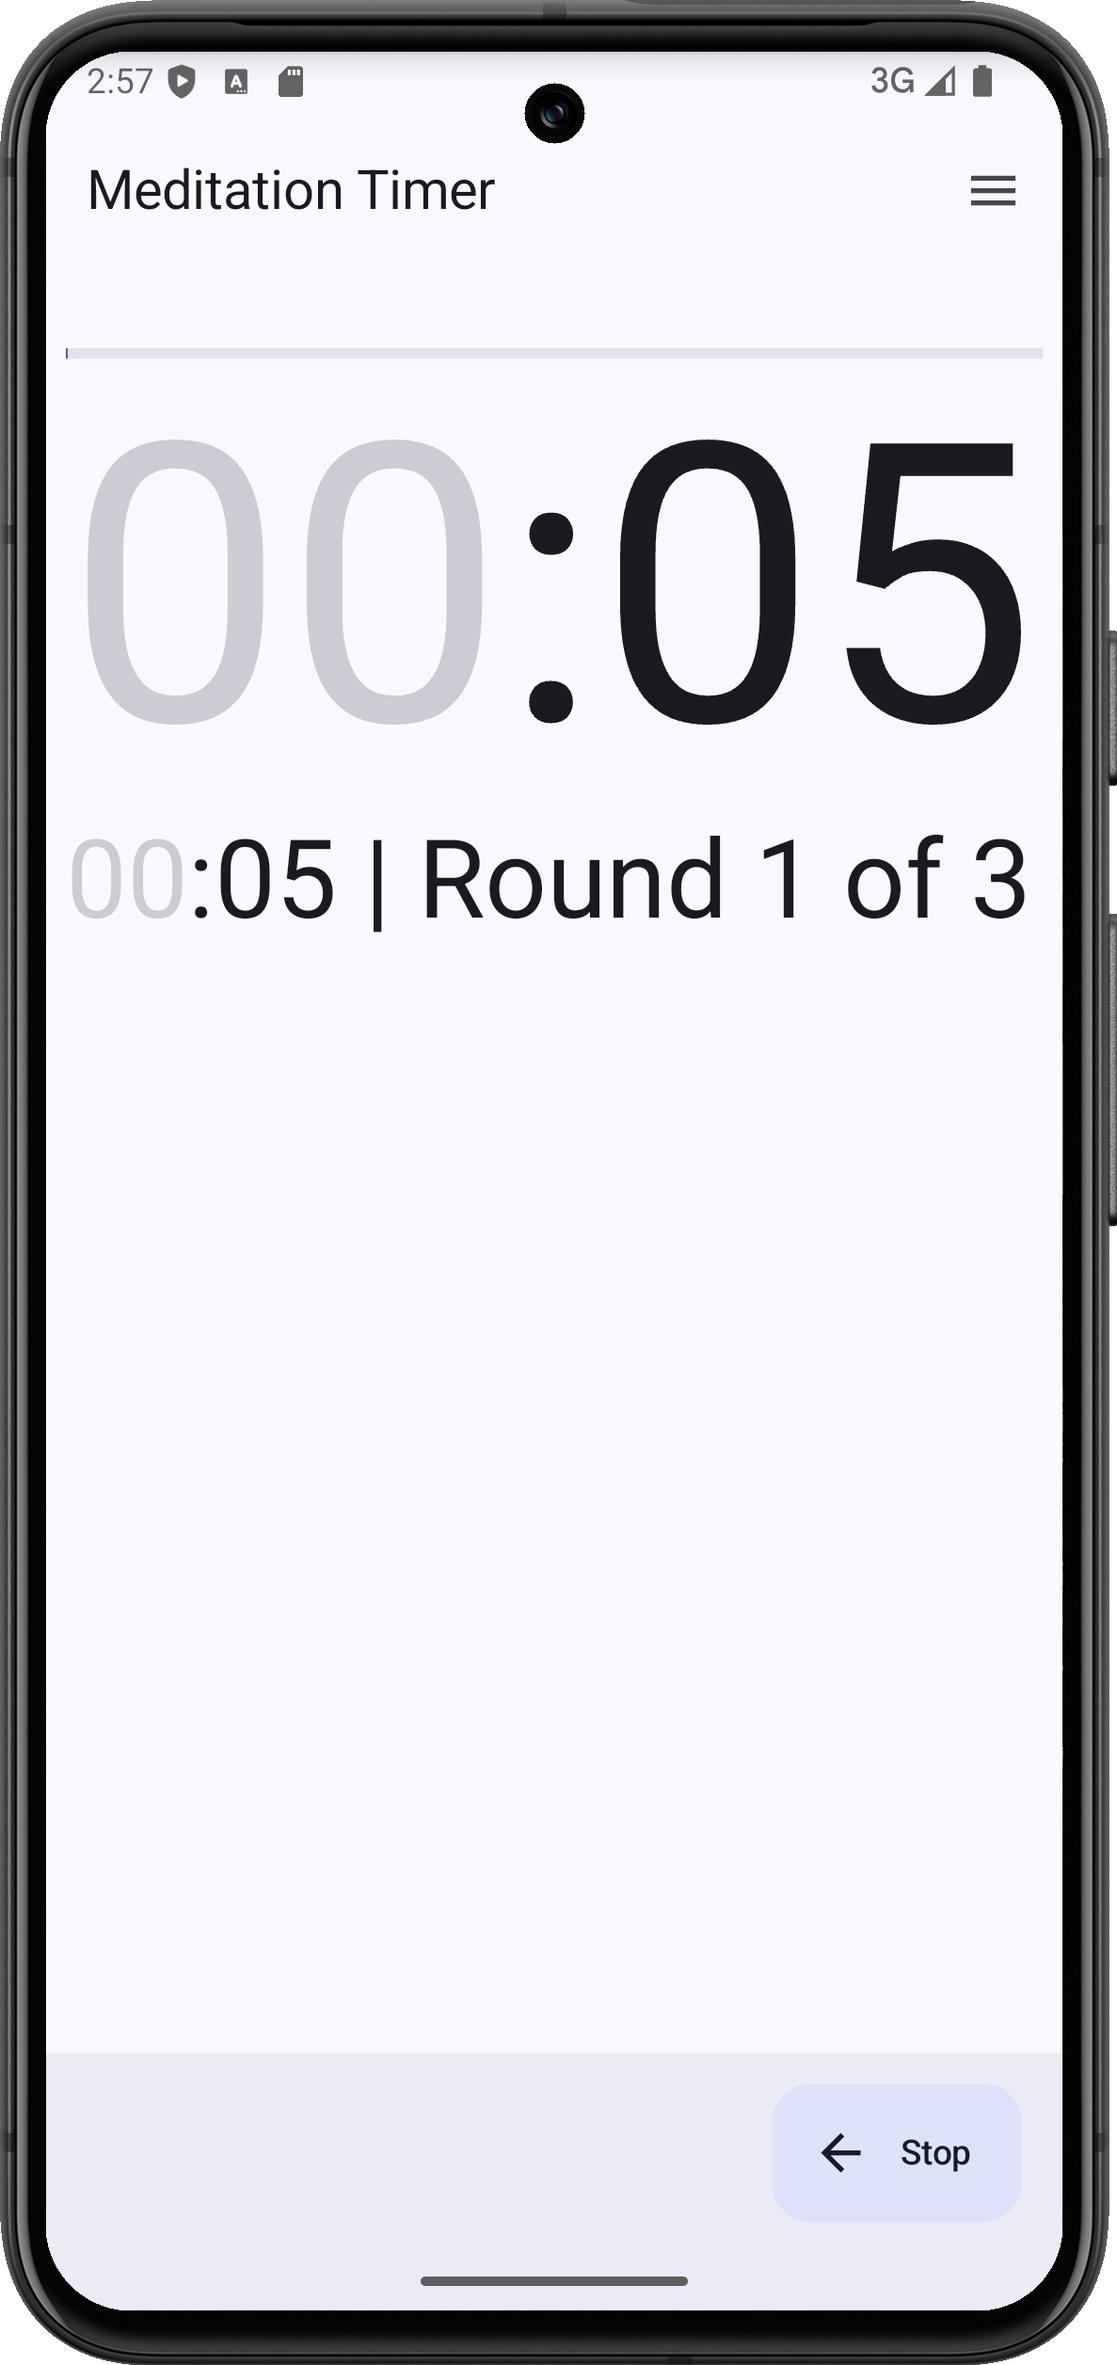
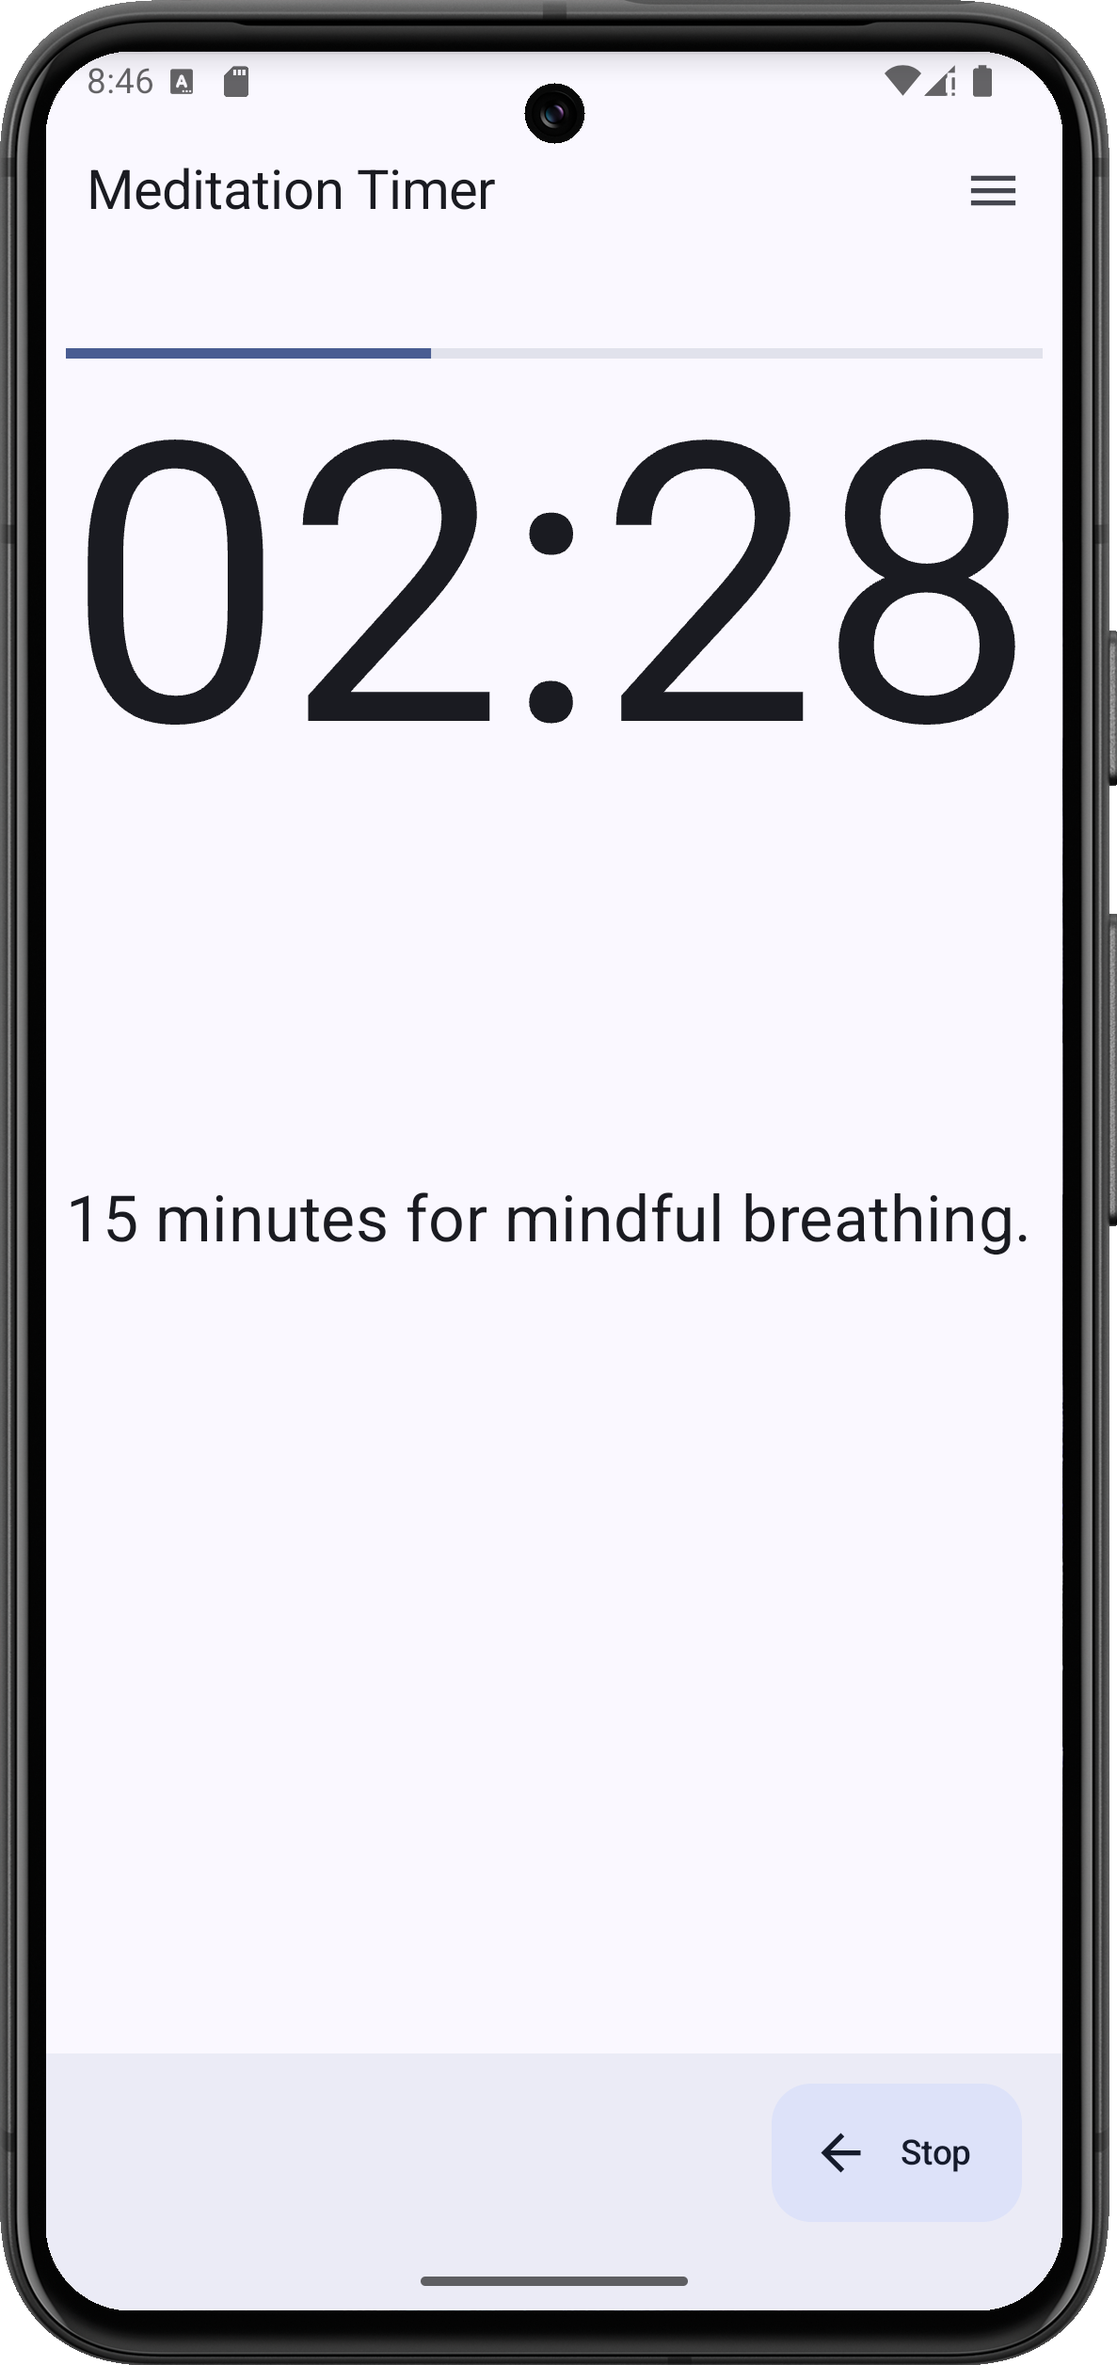
in which our hero simplifies further, and makes visual UI changes

diff --git a/app/src/main/java/com/exner/tools/meditationtimer/ui/destinations/ProcessList.kt b/app/src/main/java/com/exner/tools/meditationtimer/ui/destinations/ProcessList.kt
@@ -2,24 +2,27 @@ package com.exner.tools.meditationtimer.ui.destinations
 
 import androidx.compose.foundation.clickable
 import androidx.compose.foundation.layout.Arrangement
+import androidx.compose.foundation.layout.Box
 import androidx.compose.foundation.layout.Column
+import androidx.compose.foundation.layout.Row
 import androidx.compose.foundation.layout.fillMaxWidth
 import androidx.compose.foundation.layout.padding
+import androidx.compose.foundation.layout.wrapContentSize
 import androidx.compose.foundation.lazy.grid.GridCells
 import androidx.compose.foundation.lazy.grid.LazyVerticalGrid
 import androidx.compose.material.icons.Icons
 import androidx.compose.material.icons.filled.Add
 import androidx.compose.material3.BottomAppBar
 import androidx.compose.material3.BottomAppBarDefaults
+import androidx.compose.material3.Button
+import androidx.compose.material3.DropdownMenu
 import androidx.compose.material3.DropdownMenuItem
 import androidx.compose.material3.ExperimentalMaterial3Api
-import androidx.compose.material3.ExposedDropdownMenuBox
 import androidx.compose.material3.ExposedDropdownMenuDefaults
 import androidx.compose.material3.ExtendedFloatingActionButton
 import androidx.compose.material3.FloatingActionButtonDefaults
 import androidx.compose.material3.Icon
 import androidx.compose.material3.ListItem
-import androidx.compose.material3.OutlinedTextField
 import androidx.compose.material3.Scaffold
 import androidx.compose.material3.Surface
 import androidx.compose.material3.Text
@@ -28,6 +31,7 @@ import androidx.compose.runtime.getValue
 import androidx.compose.runtime.mutableStateOf
 import androidx.compose.runtime.remember
 import androidx.compose.runtime.setValue
+import androidx.compose.ui.Alignment
 import androidx.compose.ui.Modifier
 import androidx.compose.ui.unit.dp
 import androidx.hilt.navigation.compose.hiltViewModel
@@ -73,23 +77,23 @@ fun ProcessList(
                 var categoryExpanded by remember {
                     mutableStateOf(false)
                 }
-                ExposedDropdownMenuBox(
-                    expanded = categoryExpanded,
-                    onExpandedChange = { categoryExpanded = !categoryExpanded }
+                Box(
+                    modifier = Modifier
+                        .fillMaxWidth()
+                        .padding(8.dp, 0.dp)
+                        .wrapContentSize(Alignment.TopEnd)
                 ) {
-                    OutlinedTextField(
-                        // The `menuAnchor` modifier must be passed to the text field for correctness.
-                        modifier = Modifier
-                            .menuAnchor()
-                            .fillMaxWidth()
-                            .padding(8.dp),
-                        readOnly = true,
-                        value = currentCategory.name,
-                        onValueChange = {},
-                        label = { Text("Process category") },
-                        trailingIcon = { ExposedDropdownMenuDefaults.TrailingIcon(expanded = categoryExpanded) },
-                    )
-                    ExposedDropdownMenu(
+                    Row(
+                        verticalAlignment = Alignment.CenterVertically
+                    ) {
+                        Text(text = "Category: ")
+                        Button(
+                            onClick = { categoryExpanded = true }
+                        ) {
+                            Text(text = currentCategory.name)
+                        }
+                    }
+                    DropdownMenu(
                         expanded = categoryExpanded,
                         onDismissRequest = { categoryExpanded = false }) {
                         DropdownMenuItem(

diff --git a/app/src/main/java/com/exner/tools/meditationtimer/ui/destinations/Settings.kt b/app/src/main/java/com/exner/tools/meditationtimer/ui/destinations/Settings.kt
@@ -1,27 +1,21 @@
 package com.exner.tools.meditationtimer.ui.destinations
 
 import android.content.pm.ActivityInfo
-import androidx.compose.animation.AnimatedVisibility
 import androidx.compose.foundation.layout.Column
 import androidx.compose.foundation.layout.fillMaxSize
-import androidx.compose.foundation.layout.fillMaxWidth
-import androidx.compose.foundation.layout.padding
 import androidx.compose.foundation.rememberScrollState
 import androidx.compose.foundation.verticalScroll
-import androidx.compose.material3.Text
 import androidx.compose.runtime.Composable
 import androidx.compose.runtime.getValue
 import androidx.compose.ui.Modifier
 import androidx.compose.ui.tooling.preview.Devices
 import androidx.compose.ui.tooling.preview.Preview
-import androidx.compose.ui.unit.dp
 import androidx.hilt.navigation.compose.hiltViewModel
 import androidx.lifecycle.compose.collectAsStateWithLifecycle
 import com.exner.tools.meditationtimer.ui.LockScreenOrientation
 import com.exner.tools.meditationtimer.ui.SettingsViewModel
 import com.exner.tools.meditationtimer.ui.TextAndSwitch
 import com.exner.tools.meditationtimer.ui.TextAndTriStateToggle
-import com.exner.tools.meditationtimer.ui.TextFieldForTimes
 import com.exner.tools.meditationtimer.ui.theme.MeditationTimerTheme
 import com.exner.tools.meditationtimer.ui.theme.Theme
 import com.ramcosta.composedestinations.annotation.Destination
@@ -33,8 +27,6 @@ fun Settings(
 ) {
 
     val userSelectedTheme by settingsViewModel.userSelectedTheme.collectAsStateWithLifecycle()
-    val beforeCountingWait by settingsViewModel.beforeCountingWait.collectAsStateWithLifecycle()
-    val howLongToWaitBeforeCounting by settingsViewModel.howLongToWaitBeforeCounting.collectAsStateWithLifecycle()
     val countBackwards by settingsViewModel.countBackwards.collectAsStateWithLifecycle()
     val chainToSameCategoryOnly by settingsViewModel.chainToSameCategoryOnly.collectAsStateWithLifecycle()
     val noSounds by settingsViewModel.noSounds.collectAsStateWithLifecycle()
@@ -61,24 +53,6 @@ fun Settings(
         )
         TextAndSwitch(text = "Simplify Display", checked = showSimpleDisplay) {
             settingsViewModel.updateShowSimpleDisplay(it)
-        }
-        TextAndSwitch(text = "Before counting, wait", checked = beforeCountingWait) {
-            settingsViewModel.updateBeforeCountingWait(it)
-        }
-        AnimatedVisibility(visible = beforeCountingWait) {
-            Column(
-                modifier = Modifier
-                    .fillMaxWidth()
-                    .padding(8.dp, 0.dp)
-            ) {
-                TextFieldForTimes(
-                    value = howLongToWaitBeforeCounting,
-                    label = { Text(text = "How long to wait before counting (seconds)") },
-                    onValueChange = {
-                        settingsViewModel.updateHowLongToWaitBeforeCounting(it)
-                    }
-                ) { Text(text = "5") }
-            }
         }
         TextAndSwitch(
             text = "Count backwards (down to 0)",

diff --git a/app/src/main/java/com/exner/tools/meditationtimer/ui/destinations/ProcessEdit.kt b/app/src/main/java/com/exner/tools/meditationtimer/ui/destinations/ProcessEdit.kt
@@ -22,9 +22,9 @@ import androidx.compose.material3.ExposedDropdownMenuDefaults
 import androidx.compose.material3.ExtendedFloatingActionButton
 import androidx.compose.material3.FloatingActionButtonDefaults
 import androidx.compose.material3.Icon
-import androidx.compose.material3.OutlinedTextField
 import androidx.compose.material3.Scaffold
 import androidx.compose.material3.Text
+import androidx.compose.material3.TextField
 import androidx.compose.runtime.Composable
 import androidx.compose.runtime.getValue
 import androidx.compose.runtime.livedata.observeAsState
@@ -95,7 +95,7 @@ fun ProcessEdit(
                 Row(modifier = Modifier
                     .fillMaxWidth()
                     .padding(8.dp)) {
-                    OutlinedTextField(
+                    TextField(
                         value = name ?: "Name",
                         onValueChange = {
                             processEditViewModel.updateName(it)
@@ -111,7 +111,7 @@ fun ProcessEdit(
                         .fillMaxWidth()
                         .padding(8.dp)
                 ) {
-                    OutlinedTextField(
+                    TextField(
                         value = info ?: "Details",
                         onValueChange = {
                             processEditViewModel.updateInfo(it)
@@ -133,7 +133,7 @@ fun ProcessEdit(
                         verticalAlignment = Alignment.CenterVertically,
                         horizontalArrangement = Arrangement.SpaceBetween
                     ) {
-                        OutlinedTextField(
+                        TextField(
                             // The `menuAnchor` modifier must be passed to the text field for correctness.
                             modifier = Modifier
                                 .menuAnchor()
@@ -210,7 +210,7 @@ fun ProcessEdit(
                         ExposedDropdownMenuBox(
                             expanded = expanded,
                             onExpandedChange = { expanded = !expanded }) {
-                            OutlinedTextField(
+                            TextField(
                                 // The `menuAnchor` modifier must be passed to the text field for correctness.
                                 modifier = Modifier
                                     .menuAnchor()

diff --git a/app/src/main/java/com/exner/tools/meditationtimer/data/di/AppComponent.kt b/app/src/main/java/com/exner/tools/meditationtimer/data/di/AppComponent.kt
@@ -60,26 +60,26 @@ object AppComponent {
             val secondUuid = UUID.randomUUID().toString()
             var meditationTimerProcess =
                 MeditationTimerProcess(
-                    name = "Test Process 1",
-                    info = "A test process that runs for 30 minutes, then leads directly into 'Test Process 2'",
-                    categoryId = null,
+                    name = "Basic 1 - Arriving",
+                    info = "5 minutes for you to slow down and arrive.",
+                    categoryId = 1L,
                     uuid = UUID.randomUUID().toString(),
-                    processTime = 30,
-                    intervalTime = 10,
+                    processTime = 5,
+                    intervalTime = 5,
                     hasAutoChain = true,
                     gotoUuid = secondUuid,
-                    gotoName = "Test Process 2",
+                    gotoName = "Basic 1 - Mindful Breathing",
                     uid = 0L,
                 )
             provider.get().insert(meditationTimerProcess)
             meditationTimerProcess =
                 MeditationTimerProcess(
-                    name = "Test Process 2",
-                    info = "Test process that is launched by 'Test Process 2'. It runs for 15 minutes.",
-                    categoryId = null,
+                    name = "Basic 1 - Mindful Breathing",
+                    info = "15 minutes for mindful breathing.",
+                    categoryId = 1L,
                     uuid = secondUuid,
                     processTime = 15,
-                    intervalTime = 5,
+                    intervalTime = 15,
                     hasAutoChain = false,
                     gotoUuid = null,
                     gotoName = null,
@@ -87,8 +87,8 @@ object AppComponent {
                 )
             provider.get().insert(meditationTimerProcess)
             val demoCategory = MeditationTimerProcessCategory(
-                name = "Category 1",
-                uid = 0
+                name = "Breathing",
+                uid = 0L
             )
             provider.get().insertCategory(demoCategory)
         }

diff --git a/app/src/main/java/com/exner/tools/meditationtimer/steps/ProcessStepTools.kt b/app/src/main/java/com/exner/tools/meditationtimer/steps/ProcessStepTools.kt
@@ -8,8 +8,6 @@ const val STEP_LENGTH_IN_MILLISECONDS = 1000
 
 fun getProcessStepListForOneProcess(
     process: MeditationTimerProcess,
-    hasLeadIn: Boolean = false,
-    leadInTime: Int = 5,
     useSounds: Boolean = true,
     countBackwards: Boolean = false,
 ): MutableList<List<ProcessStepAction>> {
@@ -17,29 +15,7 @@ fun getProcessStepListForOneProcess(
     val result = mutableListOf<List<ProcessStepAction>>()
 
     var processParameters = ""
-    if (hasLeadIn && leadInTime > 0) {
-        processParameters += "$leadInTime > "
-    }
     processParameters += "${process.processTime} / ${process.intervalTime}"
-
-    // do we need steps for lead-in, and how many?
-    if (hasLeadIn && leadInTime > 0) {
-        val howManySteps = leadInTime * 1000 / STEP_LENGTH_IN_MILLISECONDS
-        for (i in 1..howManySteps) {
-            val actionsList = mutableListOf<ProcessStepAction>()
-            val timeToShow =
-                if (countBackwards) (howManySteps + 1) - i * STEP_LENGTH_IN_MILLISECONDS / 1000 else i * STEP_LENGTH_IN_MILLISECONDS / 1000
-            // add actions as needed
-            val ftpliAction = ProcessLeadInDisplayStepAction(
-                processName = process.name,
-                processParameters = processParameters,
-                currentLeadInTime = timeToShow
-            )
-            actionsList.add(ftpliAction)
-            // add the chain of actions to the overall list
-            result.add(actionsList)
-        }
-    }
 
     // how many steps do we need for the regular interval?
     val howManySteps = process.processTime * 60 * 1000 / STEP_LENGTH_IN_MILLISECONDS

diff --git a/app/src/main/java/com/exner/tools/meditationtimer/ui/SettingsViewModel.kt b/app/src/main/java/com/exner/tools/meditationtimer/ui/SettingsViewModel.kt
@@ -21,16 +21,6 @@ class SettingsViewModel @Inject constructor(
         SharingStarted.WhileSubscribed(),
         Theme.Auto
     )
-    val beforeCountingWait: StateFlow<Boolean> = userPreferencesManager.beforeCountingWait().stateIn(
-            viewModelScope,
-            SharingStarted.WhileSubscribed(),
-            false
-        )
-    val howLongToWaitBeforeCounting: StateFlow<Int> = userPreferencesManager.howLongToWaitBeforeCounting().stateIn(
-        viewModelScope,
-        SharingStarted.WhileSubscribed(),
-        5
-    )
     val countBackwards: StateFlow<Boolean> = userPreferencesManager.countBackwards().stateIn(
         viewModelScope,
         SharingStarted.WhileSubscribed(),
@@ -60,18 +50,6 @@ class SettingsViewModel @Inject constructor(
     fun updateUserSelectedTheme(newTheme: Theme) {
         viewModelScope.launch {
             userPreferencesManager.setTheme(newTheme)
-        }
-    }
-
-    fun updateBeforeCountingWait(newBeforeCountingWait: Boolean) {
-        viewModelScope.launch {
-            userPreferencesManager.setBeforeCountingWait(newBeforeCountingWait)
-        }
-    }
-
-    fun updateHowLongToWaitBeforeCounting(newHowLongToWaitBeforeCounting: Int) {
-        viewModelScope.launch {
-            userPreferencesManager.setHowLongToWaitBeforeCounting(newHowLongToWaitBeforeCounting)
         }
     }
 

diff --git a/app/src/main/java/com/exner/tools/meditationtimer/data/preferences/MeditationTimerUserPreferencesManager.kt b/app/src/main/java/com/exner/tools/meditationtimer/data/preferences/MeditationTimerUserPreferencesManager.kt
@@ -39,33 +39,6 @@ class MeditationTimerUserPreferencesManager @Inject constructor(
             preferences[KEY_THEME] = newTheme.name
         }
     }
-    fun beforeCountingWait(): Flow<Boolean> {
-        return userDataStorePreferences.data.catch {
-            emit(emptyPreferences())
-        }.map { preferences ->
-            preferences[KEY_BEFORE_COUNTING_WAIT] ?: false
-        }
-    }
-
-    suspend fun setBeforeCountingWait(newBeforeCountingWait: Boolean) {
-        userDataStorePreferences.edit { preferences ->
-            preferences[KEY_BEFORE_COUNTING_WAIT] = newBeforeCountingWait
-        }
-    }
-
-    fun howLongToWaitBeforeCounting(): Flow<Int> {
-        return userDataStorePreferences.data.catch {
-            emit(emptyPreferences())
-        }.map { preferences ->
-            preferences[KEY_HOW_LONG_TO_WAIT_BEFORE_COUNTING] ?: 5
-        }
-    }
-
-    suspend fun setHowLongToWaitBeforeCounting(newHowLongToWaitBeforeCounting: Int) {
-        userDataStorePreferences.edit { preferences ->
-            preferences[KEY_HOW_LONG_TO_WAIT_BEFORE_COUNTING] = newHowLongToWaitBeforeCounting
-        }
-    }
 
     fun countBackwards(): Flow<Boolean> {
         return userDataStorePreferences.data.catch {

diff --git a/app/src/main/java/com/exner/tools/meditationtimer/ui/CustomComponents.kt b/app/src/main/java/com/exner/tools/meditationtimer/ui/CustomComponents.kt
@@ -16,10 +16,10 @@ import androidx.compose.foundation.text.KeyboardOptions
 import androidx.compose.material3.ListItem
 import androidx.compose.material3.LocalTextStyle
 import androidx.compose.material3.MaterialTheme
-import androidx.compose.material3.OutlinedTextField
 import androidx.compose.material3.Surface
 import androidx.compose.material3.Switch
 import androidx.compose.material3.Text
+import androidx.compose.material3.TextField
 import androidx.compose.runtime.Composable
 import androidx.compose.runtime.DisposableEffect
 import androidx.compose.runtime.getValue
@@ -122,7 +122,7 @@ fun TextFieldForTimes(
     placeholder: @Composable (() -> Unit)? = null,
 ) {
     var text by remember(value) { mutableStateOf(value.toString()) }
-    OutlinedTextField(
+    TextField(
         value = text,
         label = label,
         modifier = Modifier

diff --git a/app/src/main/java/com/exner/tools/meditationtimer/ui/ProcessRunViewModel.kt b/app/src/main/java/com/exner/tools/meditationtimer/ui/ProcessRunViewModel.kt
@@ -86,8 +86,6 @@ class ProcessRunViewModel @Inject constructor(
                         val partialResult =
                             getProcessStepListForOneProcess(
                                 process = process,
-                                hasLeadIn = firstRound && userPreferencesRepository.beforeCountingWait().firstOrNull() ?: false,
-                                leadInTime = userPreferencesRepository.howLongToWaitBeforeCounting().firstOrNull() ?: 5,
                                 countBackwards = userPreferencesRepository.countBackwards().firstOrNull() ?: false,
                             )
                         result.addAll(partialResult)
